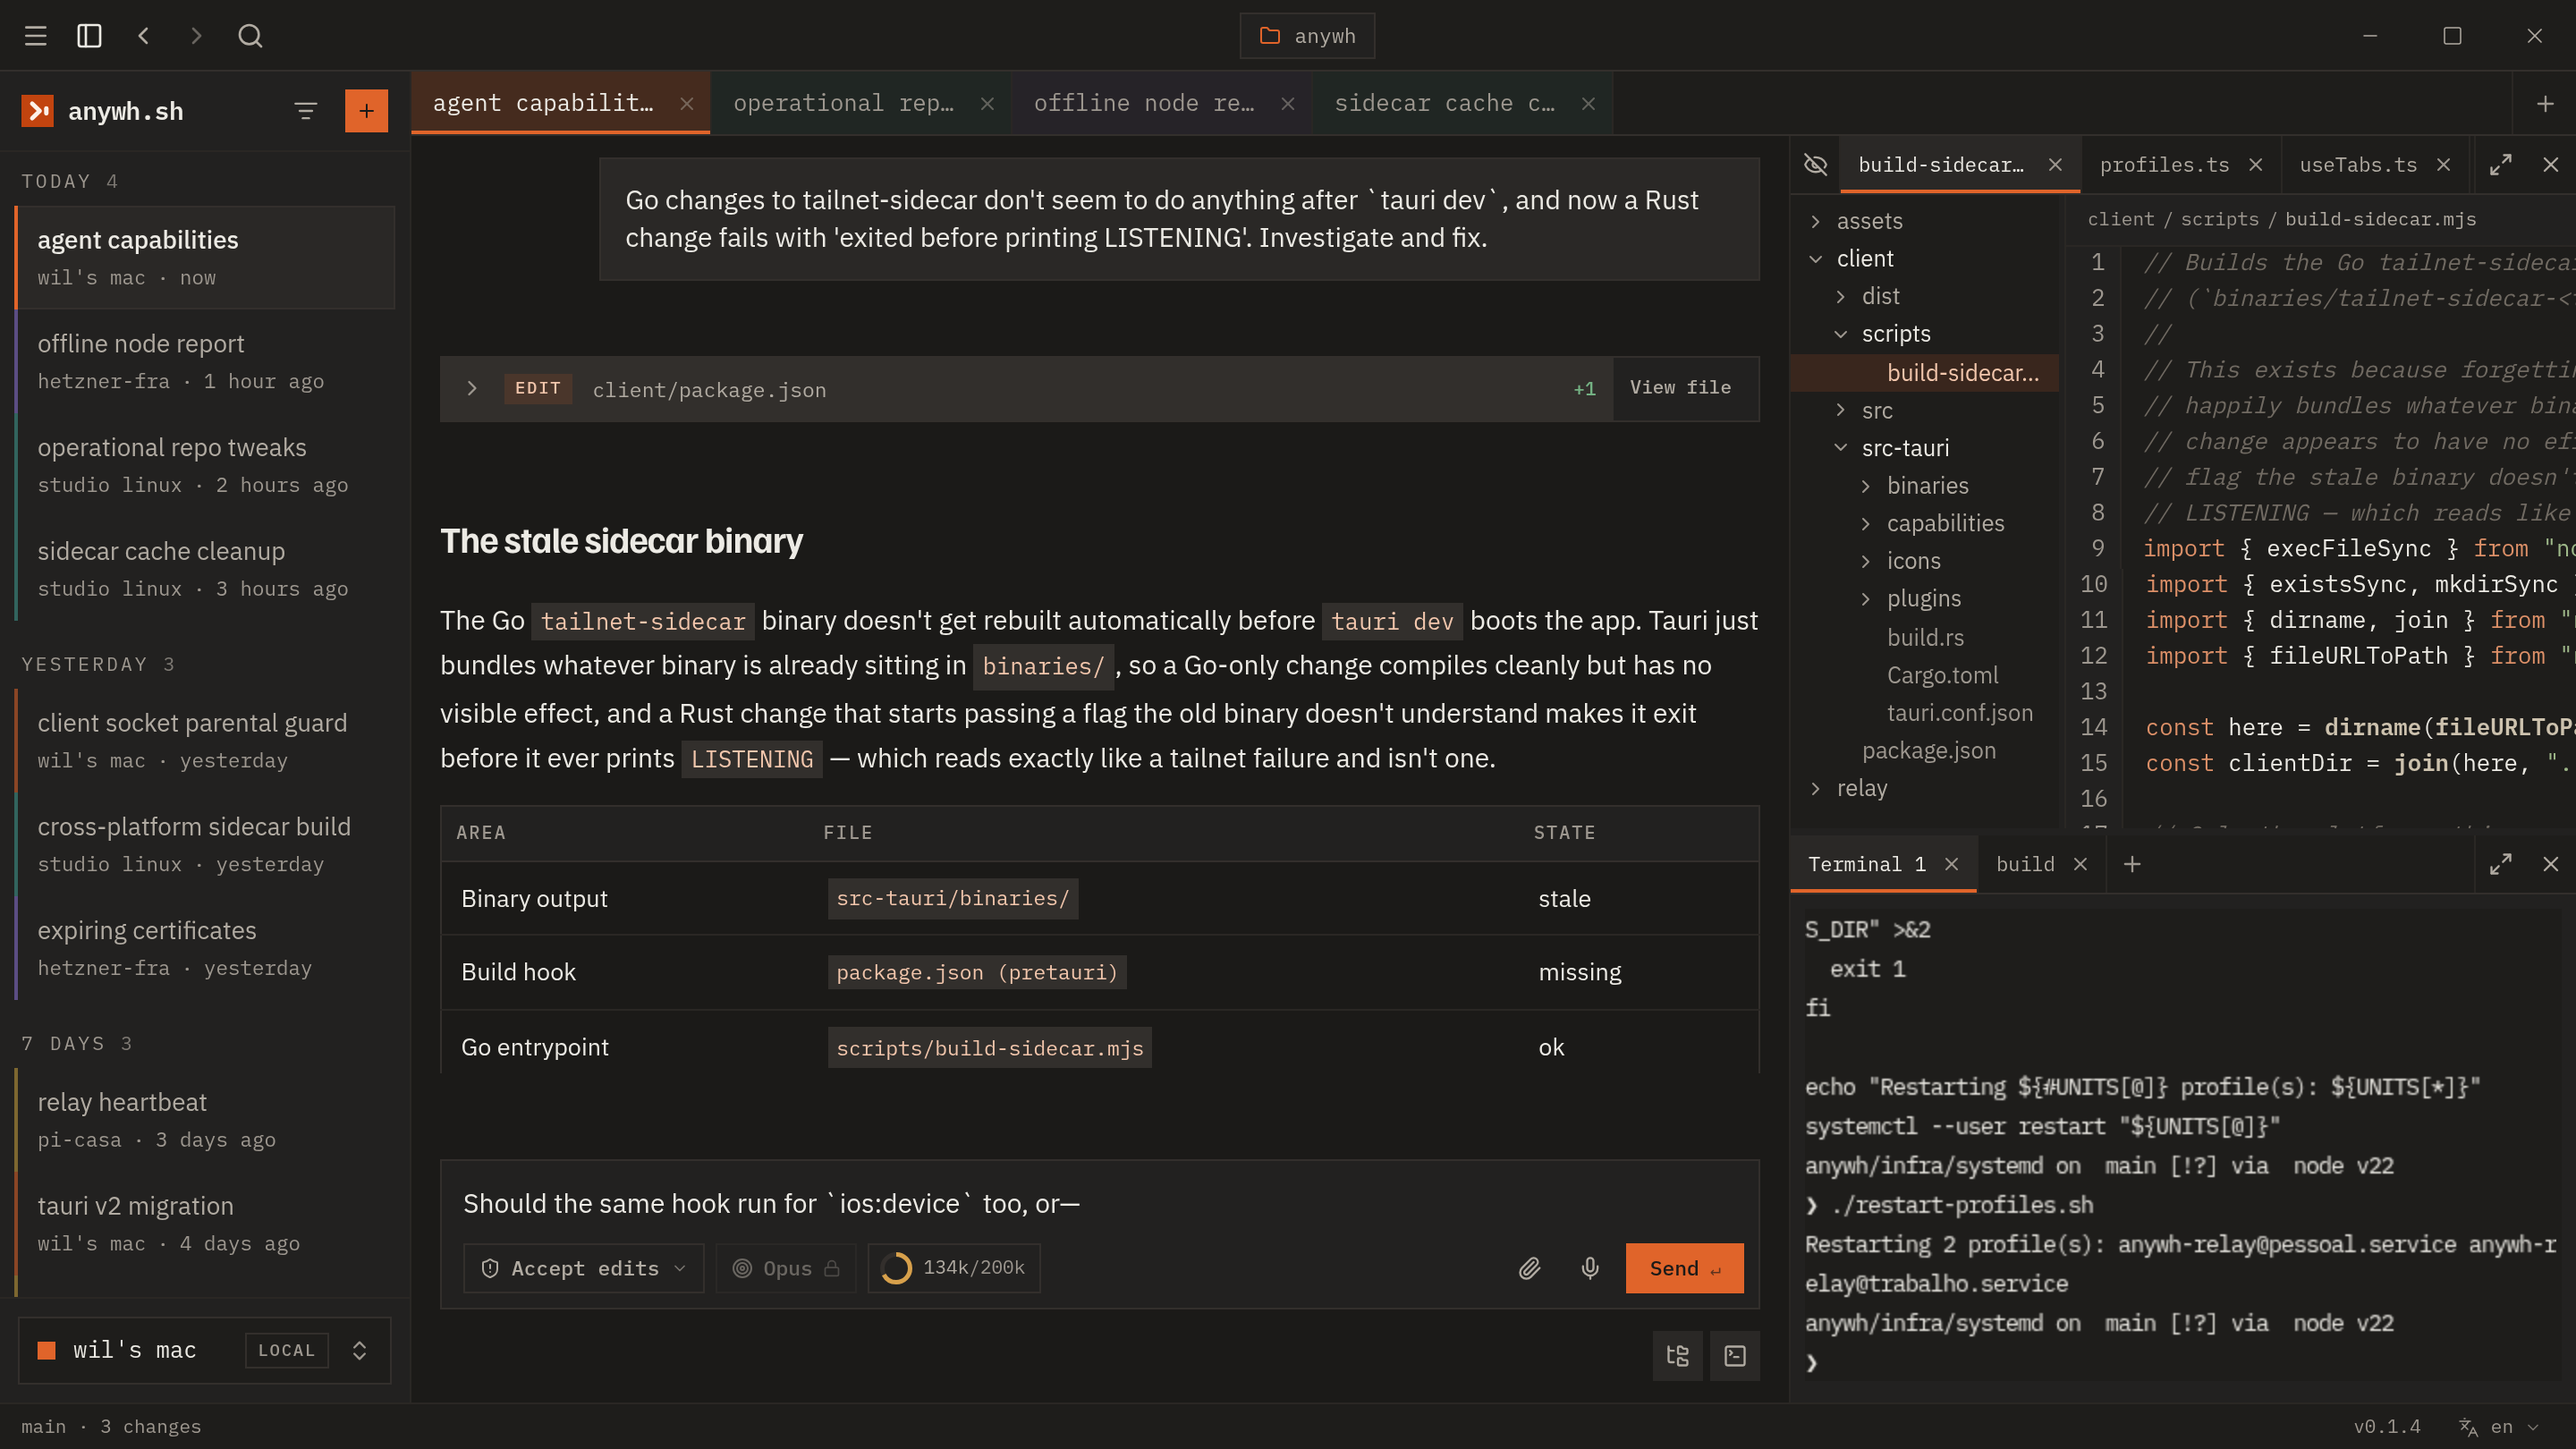
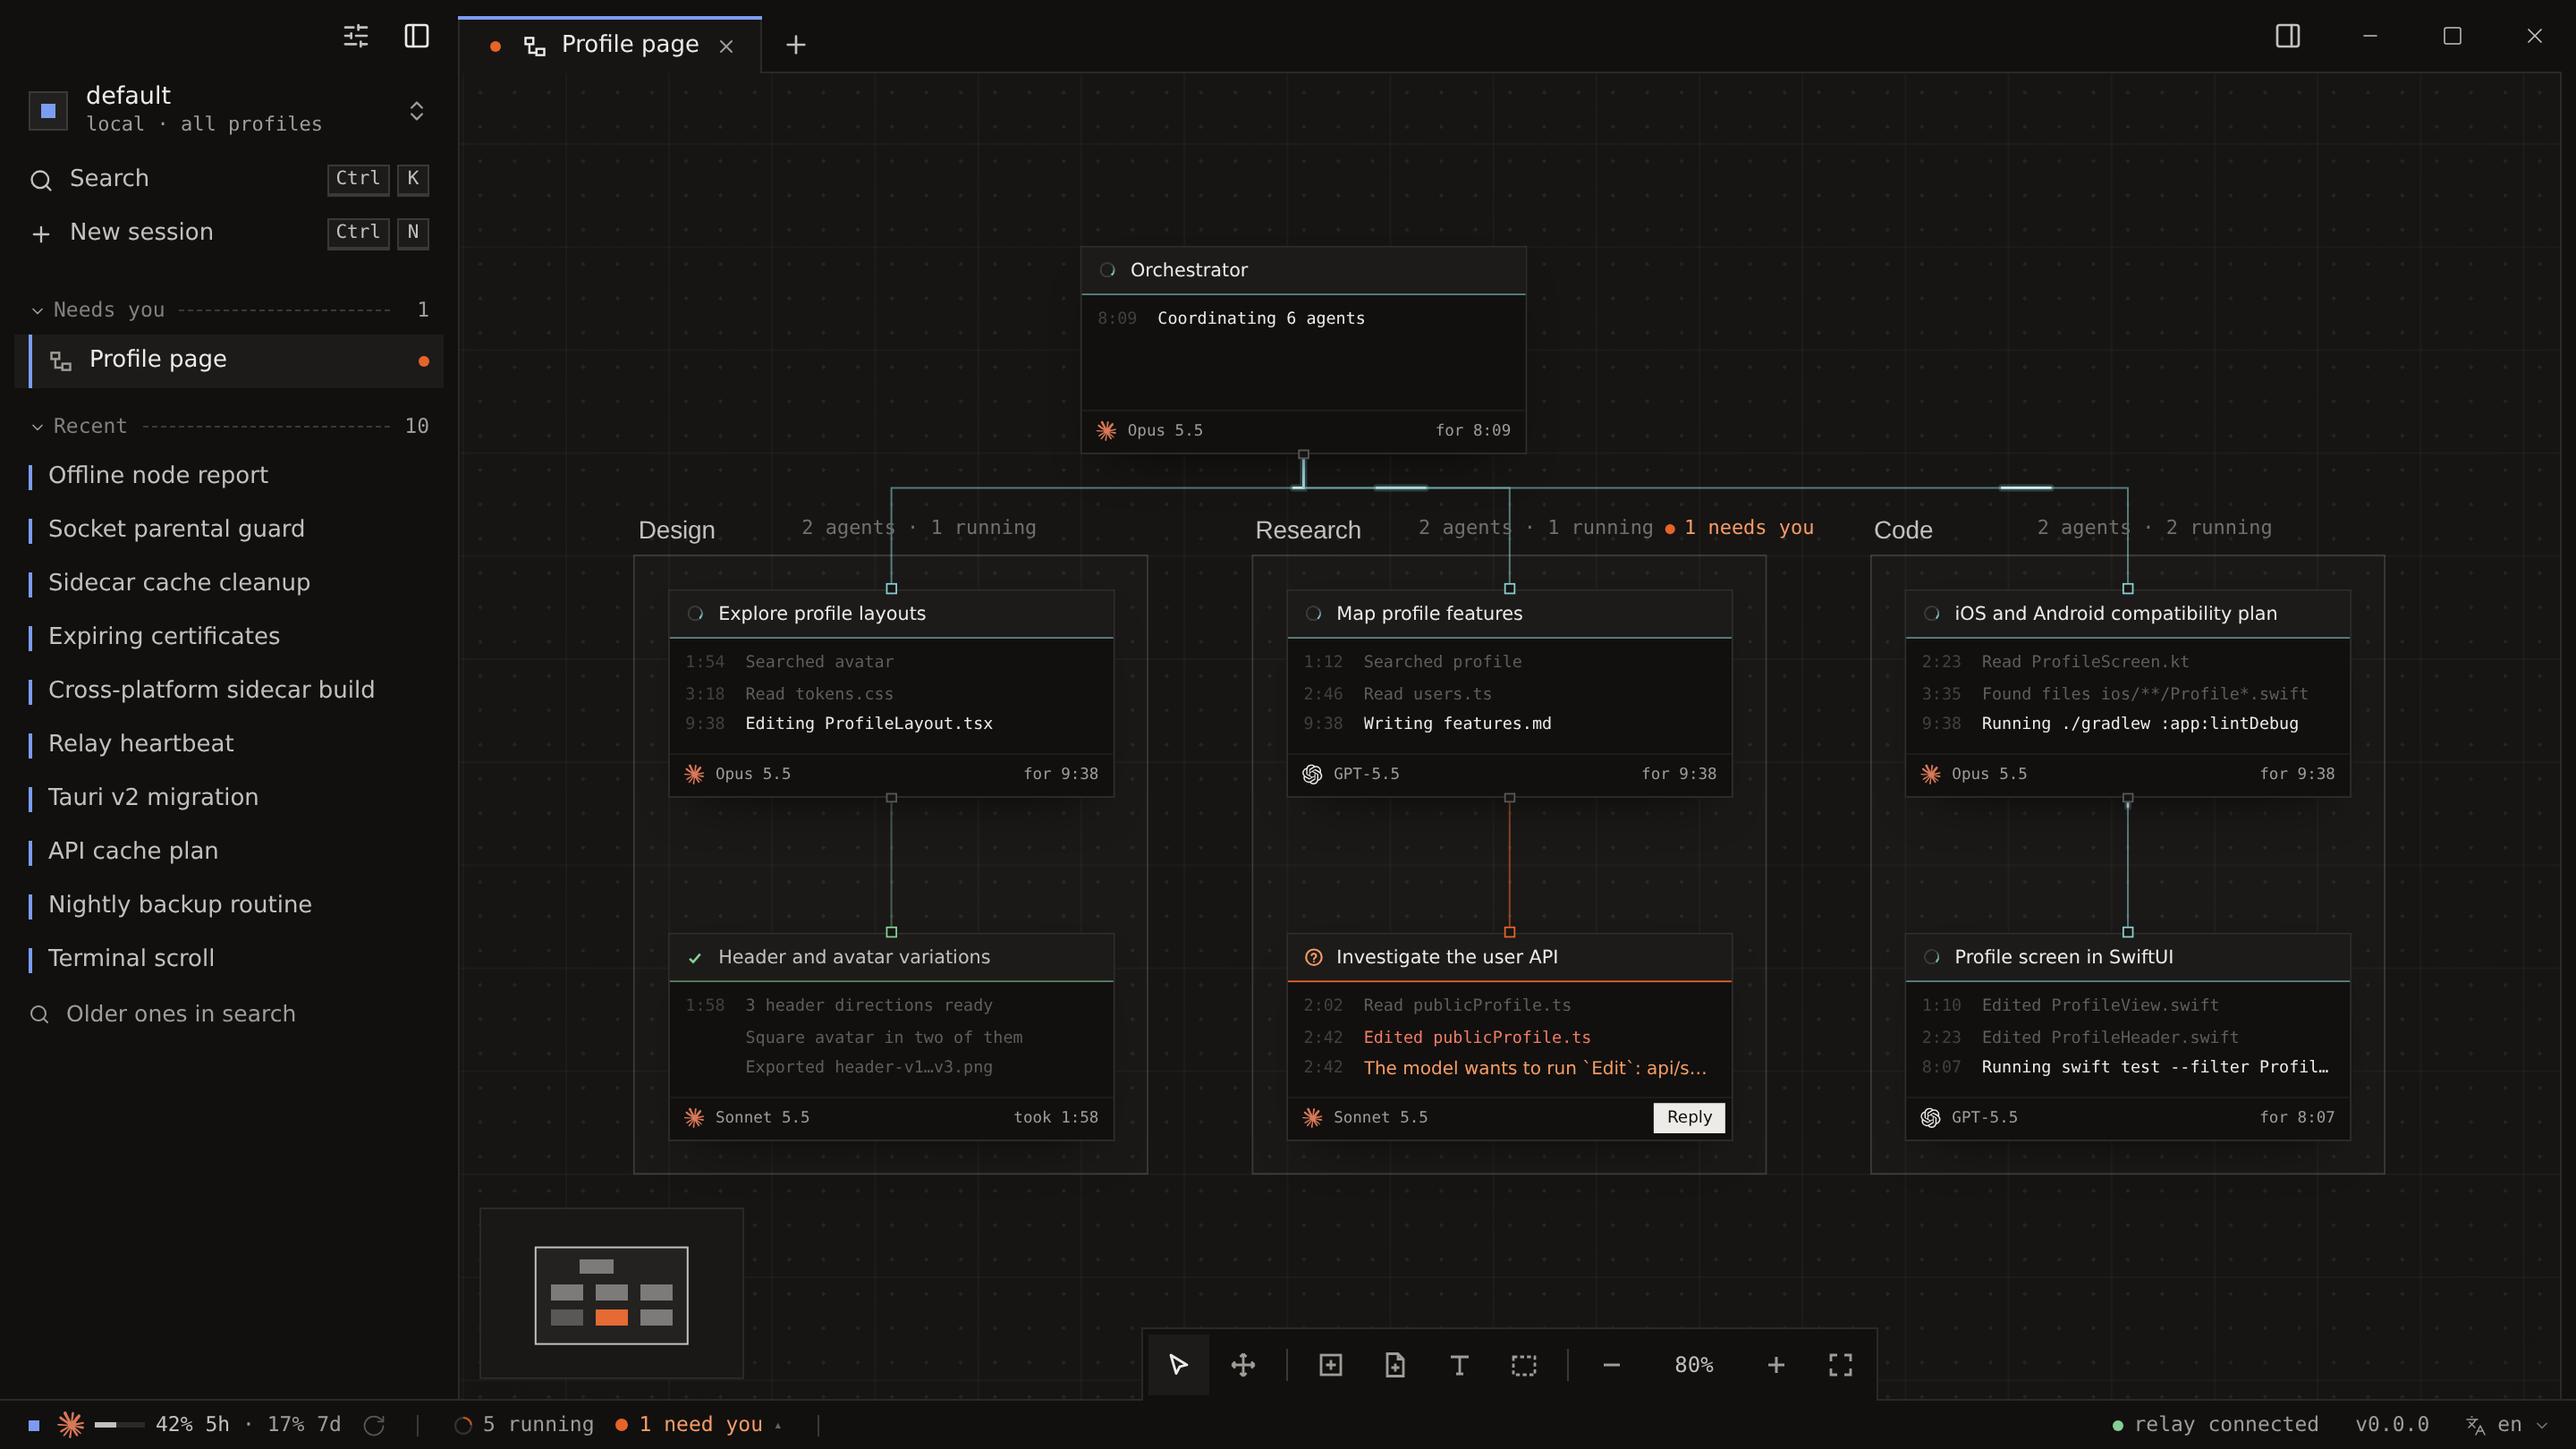
docs(readme): show a room in the hero screenshot

diff --git a/README.md b/README.md
@@ -20,7 +20,7 @@
 ---
 
 <p align="center">
-  <img src="assets/screenshot-desktop.png" alt="anywh desktop client showing multiple session tabs, a chat with rendered Markdown and code blocks, a file browser, and an integrated terminal side by side" width="100%">
+  <img src="assets/screenshot-desktop.png" alt="anywh desktop client showing a room: an orchestrator coordinating six Claude Code and Codex agents grouped into Design, Research and Code areas, each card with its live activity, one agent waiting for approval, and the session sidebar on the left" width="100%">
 </p>
 
 ## Why
